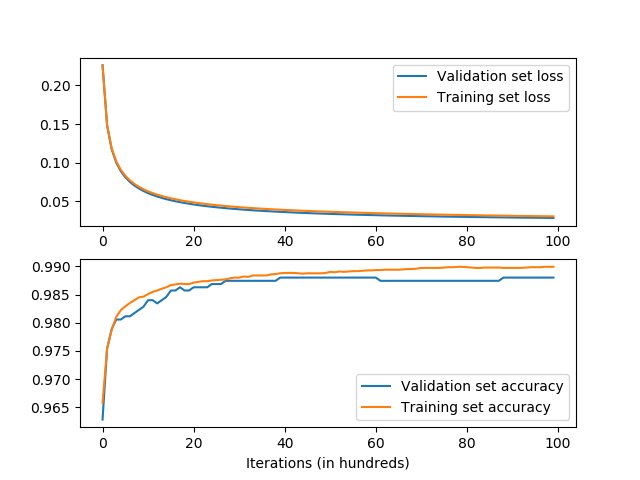
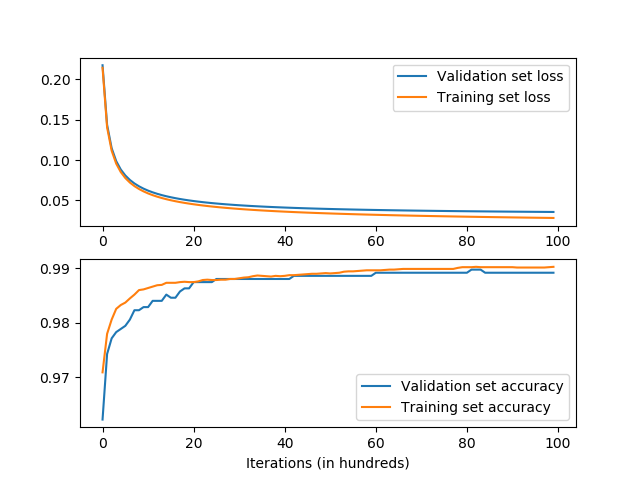
Fixed small issue on data parsing, re-trained model

diff --git a/main.py b/main.py
@@ -23,7 +23,7 @@ def load_dataset(image_folder="images/", split_ratio=0.7):
         resnet = ResNet50(weights='imagenet')
         feature_model = Model(inputs=resnet.input, outputs=resnet.get_layer("flatten_1").output)  
         
-        files = [os.path.join(image_folder, filename) for filename in os.listdir(image_folder) if os.path.isfile(os.path.join(image_folder, filename))][:100]
+        files = [os.path.join(image_folder, filename) for filename in os.listdir(image_folder) if os.path.isfile(os.path.join(image_folder, filename))]
         np.random.shuffle(files)
         
         labels = [labels_dict[os.path.basename(f).split(".")[0]] for f in files]

diff --git a/README.md b/README.md
@@ -12,4 +12,4 @@ The model is trained using a learning rate of 0.01 and 1000 iterations. Below yo
 
 ![Alt text](loss_accuracy_plot.png?raw=true "Loss and Accuracy curve")
 
-Accuracy in test set: 0.99066
+Accuracy in test set: 0.989333
